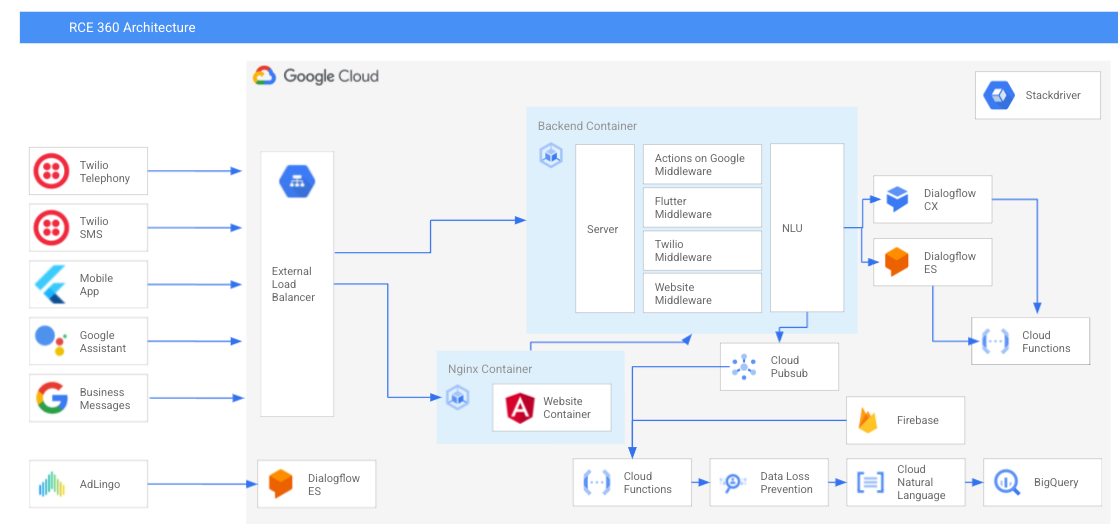
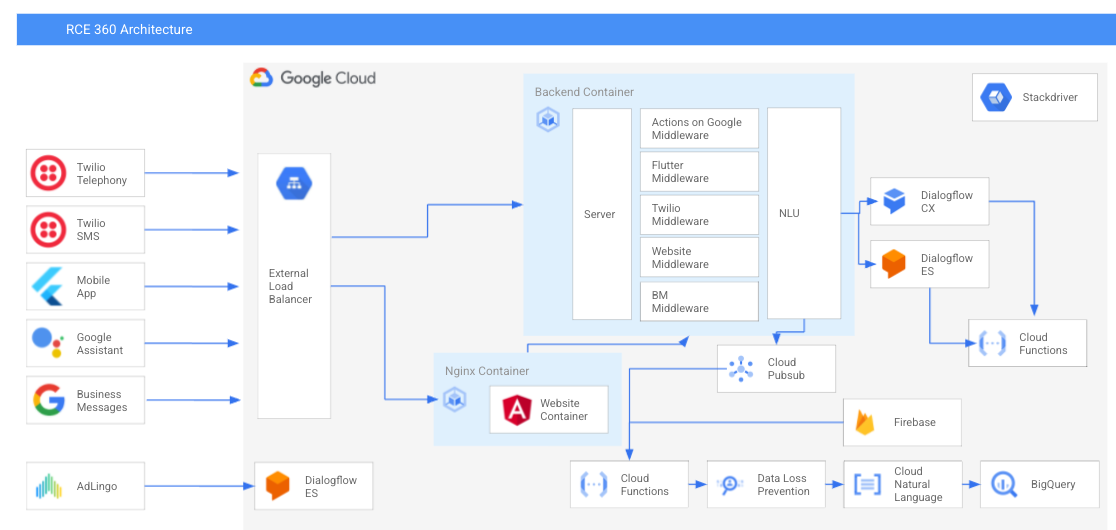
node explanation

diff --git a/README.md b/README.md
@@ -21,13 +21,16 @@ Setup to the various parts:
 * [Dialogflow](https://github.com/GoogleCloudPlatform/dialogflow-ccai-omnichannel#dialogflow)
 * [Twilio Phone & SMS](https://github.com/GoogleCloudPlatform/dialogflow-ccai-omnichannel#twilio-phonesms)
 * [Firebase](https://github.com/GoogleCloudPlatform/dialogflow-ccai-omnichannel#firebase)
+* [Business Messages](https://github.com/GoogleCloudPlatform/dialogflow-ccai-omnichannel#business-messages)
+* [Business Messages Adlingo](https://github.com/GoogleCloudPlatform/dialogflow-ccai-omnichannel#business-messages-adlingo)
+* [Business Messages Verified Calls](https://github.com/GoogleCloudPlatform/dialogflow-ccai-omnichannel#business-messages-verified-calls)
+
+To deploy this environment on GKE use these steps:
+
 * [Deploy to GKE](https://github.com/GoogleCloudPlatform/dialogflow-ccai-omnichannel#deploy-to-gke)
   
 To run this environment locally use these setup guides:
 
-* [Business Messages](https://github.com/GoogleCloudPlatform/dialogflow-ccai-omnichannel#business-messages)
-* [Business Messages Adlingo](https://github.com/GoogleCloudPlatform/dialogflow-ccai-omnichannel#business-messages-adlingo)
-* [Verified Calls](https://github.com/GoogleCloudPlatform/dialogflow-ccai-omnichannel#business-messages-verified-calls)
 * [Node JS Backend Server](https://github.com/GoogleCloudPlatform/dialogflow-ccai-omnichannel#node-js-backend-server)
 * [Angular Website](https://github.com/GoogleCloudPlatform/dialogflow-ccai-omnichannel#angular-website)
 * [Flutter Mobile App](https://github.com/GoogleCloudPlatform/dialogflow-ccai-omnichannel#flutter-mobile-app)
@@ -83,6 +86,17 @@ https://dialogflow.cloud.google.com/#/newAgent
 
 3. Import the ES agent into Dialogflow: https://github.com/GoogleCloudPlatform/dialogflow-ccai-omnichannel/tree/main/dialogflow/es-agent.zip
 
+4. To link your Dialogflow instance with a local environment make sure
+the `GC_PROJECT_ID` variable is correctly set in `backend/.env`
+
+5. To make use of Dialogflow Essentials, make sure you have set this config in `backend/config.ts`. By default it's set to `v2beta1`.
+
+```
+        dialogflow: {
+            version: 'v2beta1',
+        },
+```
+
 #### Dialogflow CX
 
 1. Create a new agent:
@@ -95,6 +109,11 @@ https://dialogflow.cloud.google.com/cx/projects
 * Language: English
 
 2. Import the CX agent into Dialogflow CX: https://github.com/GoogleCloudPlatform/dialogflow-ccai-omnichannel/tree/main/dialogflow/cx-agent.blob
+
+3. To link your Dialogflow instance with a local environment make sure
+the `AGENT_ID` and `CX_LOCATION` variables are correctly set in `backend/.env`
+
+4. To make use of Dialogflow CX, make sure you have set this config in `backend/config.ts`. By default it's set to `cx`.
 
 ## Twilio Phone/SMS
 
@@ -124,6 +143,9 @@ https://ccai.ngrok.io/twiml
 NOTE: For outbound calls you will need to whitelist the geo permissions you can call:
 https://console.twilio.com/us1/develop/voice/settings/geo-permissions
 
+6. To link your Twilio instance with a local environment make sure
+the `TWILIO_ACCOUNT_SID` and `TWILIO_ACCOUNT_TOKEN` variables are correctly set in `backend/.env`. Also make sure you have set the correct phone numbers in this file.
+
 ## Firebase
 
 You will need an account on Firebase as we will store authentication data
@@ -134,6 +156,91 @@ in Firebase auth.
 To install the Firebase command-line tools use:
 
 2. `npm install firebase-admin --save`
+
+## Business Messages
+With Business Messages, you can place messaging buttons for brands within organic Google search results. When a user clicks on a messaging button, they start a conversation with an entity representing the brand—the brand's agent. See the [Business Messages](https://developers.google.com/business-communications/business-messages/guides) documentation for more information.
+
+### Before you begin
+
+1.  [Register with Business Messages](https://developers.google.com/business-communications/business-messages/guides/set-up/register).
+
+### Configure your webhook
+You must specify your webhook URL in order to start receiving messages for the Business Messages agent you create.
+
+1.  Open the [Business Communications Developer Console](https://business-communications.cloud.google.com) and sign in with your Business Messages Google account.
+1.  Click **Account settings**.
+1.  Make sure the correct partner account is selected.
+1.  Enter your **Business Messages webhook URL** as *https://YOUR_WEB_SEVER/api/business-messages* where `YOUR_WEB_SEVER` is the domain where you are hosting the backend of the `dialogflow-ccai-omnichannel` project.
+1.  Click **Save**.
+
+### Create your Business Messages agent
+Once you've registered, it's time to create your agent.
+
+1.  Open the [Business Communications Developer Console](https://business-communications.cloud.google.com) and sign in with your Business Messages Google account.
+1.  Click **Create agent**.
+1.  If you're prompted for **Agent type**, choose **Business Messages**.
+1.  Enter values for **Brand name** and **Agent name**.
+1.  Click **Create agent**.
+1.  When your agent is available, click your agent.
+
+### Test your Business Messages agent
+
+Each agent has test URLs that let you see how a conversation with that agent
+appears to users. Use a test URL to verify that messages sent by users interacting with your agent are being received by your webhook and automatically responded to by the Dialogflow agent you've set up.
+
+To test an agent,
+
+1.  Open the [Business Communications Developer Console](https://business-communications.cloud.google.com) and sign in with your Business Messages Google account.
+1.  Choose your agent.
+1.  Under **Agent test URLs** on the **Overview** page, click the **Android** button or **iOS** button to copy the test URL to your device's clipboard and send to your mobile device or use the **Send** to email feature.
+1.  Open the test URL on your mobile device and send a message to the Business Messages agent.
+
+## Business Messages AdLingo
+
+[AdLingo Dialogflow Docs](https://docs.adlingo.com/adlingo-api/v2/dialogflow/)
+
+1. Login into your AdLingo environment: https://adsbuilder.adlingo.com/
+2. Create a [conversational agent](https://adsbuilder.adlingo.com/agents/add-new/dialogflow_service_account?activeWorkgroupId=5739925852913664):
+   - Specify the GCS bucket name and path to service account (it will be gs://[project-name]-bucket/ccai-360-key.json)
+   - Event name: `WELCOME-ADLINGO`
+3. Create a creative
+   - Upload an background image 600x1200 hi-res PNG
+   - Upload a logo
+   - Upload an avatar
+4. For this demo we are integrating an iframe with the preview of the add in the external website interface. In a real world application, this will be provided through an ads platform.
+
+## Business Messages Verified Calls
+With Verified Calls, you can upgrade a regular phone call from a business to a consumer. When a user receives a call from a business, the user sees who is calling, the logo of the business, that the business has been verified, and the reason for the call. See the [Verified Calls](https://developers.google.com/business-communications/verified-calls/guides/learn) documentation for more information.
+
+### Before you begin
+
+1.  [Register with Verified Calls](https://developers.google.com/business-communications/verified-calls/guides/set-up/partner).
+
+### Configure your webhook
+You must specify your webhook URL in order to start receiving messages for the Business Messages agent you create.
+
+1.  Open the [Business Communications Developer Console](https://business-communications.cloud.google.com) and sign in with your Business Messages Google account.
+1.  Click **Account settings**.
+1.  Make sure the correct partner account is selected.
+1.  Enter your **Business Messages webhook URL** as *https://YOUR_WEB_SEVER/api/business-messages* where `YOUR_WEB_SEVER` is the domain where you are hosting the backend of the `dialogflow-ccai-omnichannel` project.
+1.  Click **Save**.
+
+### Create your Verified Calls agent
+Once you've registered, it's time to create your agent.
+
+1.  Open the [Business Communications Developer Console](https://business-communications.cloud.google.com) and sign in with your Verified Calls Google account.
+1.  Click **Create agent**.
+1.  If you're prompted for **Agent type**, choose **Verified Calls**.
+1.  Enter values for **Brand name**, **Agent name**, and **Agent logo**.
+1.  Click **Next**.
+1.  Enter the phone number of the business.
+1.  Click **Next**.
+1.  Enter the call reasons.
+1.  Click **Next**.
+1.  Enter values for the brand contact, brand website, and yourself.
+1.  Click **Finish setup**.
+
+Once your agent has been verified by Google, when your business makes a call to a user, the user will see the business information. Note that this only works for Android users.
 
 ## Deploy to GKE
 
@@ -180,91 +287,19 @@ To deploy another deployment:
 
 The following steps will guide you to run all the various channels. These steps are optionally, in case you want to run it from your own machine.
 
-### Business Messages
-With Business Messages, you can place messaging buttons for brands within organic Google search results. When a user clicks on a messaging button, they start a conversation with an entity representing the brand—the brand's agent. See the [Business Messages](https://developers.google.com/business-communications/business-messages/guides) documentation for more information.
-
-#### Before you begin
-
-1.  [Register with Business Messages](https://developers.google.com/business-communications/business-messages/guides/set-up/register).
-
-#### Configure your webhook
-You must specify your webhook URL in order to start receiving messages for the Business Messages agent you create.
-
-1.  Open the [Business Communications Developer Console](https://business-communications.cloud.google.com) and sign in with your Business Messages Google account.
-1.  Click **Account settings**.
-1.  Make sure the correct partner account is selected.
-1.  Enter your **Business Messages webhook URL** as *https://YOUR_WEB_SEVER/api/business-messages* where `YOUR_WEB_SEVER` is the domain where you are hosting the backend of the `dialogflow-ccai-omnichannel` project.
-1.  Click **Save**.
-
-#### Create your Business Messages agent
-Once you've registered, it's time to create your agent.
-
-1.  Open the [Business Communications Developer Console](https://business-communications.cloud.google.com) and sign in with your Business Messages Google account.
-1.  Click **Create agent**.
-1.  If you're prompted for **Agent type**, choose **Business Messages**.
-1.  Enter values for **Brand name** and **Agent name**.
-1.  Click **Create agent**.
-1.  When your agent is available, click your agent.
-
-#### Test your Business Messages agent
-Each agent has test URLs that let you see how a conversation with that agent
-appears to users. Use a test URL to verify that messages sent by users interacting with your agent are being received by your webhook and automatically responded to by the Dialogflow agent you've set up.
-
-To test an agent,
-
-1.  Open the [Business Communications Developer Console](https://business-communications.cloud.google.com) and sign in with your Business Messages Google account.
-1.  Choose your agent.
-1.  Under **Agent test URLs** on the **Overview** page, click the **Android** button or **iOS** button to copy the test URL to your device's clipboard and send to your mobile device or use the **Send** to email feature.
-1.  Open the test URL on your mobile device and send a message to the Business Messages agent.
-
-### Business Messages AdLingo
-
-[AdLingo Dialogflow Docs](https://docs.adlingo.com/adlingo-api/v2/dialogflow/)
-
-1. Login into your AdLingo environment: https://adsbuilder.adlingo.com/
-2. Create a [conversational agent](https://adsbuilder.adlingo.com/agents/add-new/dialogflow_service_account?activeWorkgroupId=5739925852913664):
-   - Specify the GCS bucket name and path to service account (it will be gs://[project-name]-bucket/ccai-360-key.json)
-   - Event name: `WELCOME-ADLINGO`
-3. Create a creative
-   - Upload an background image 600x1200 hi-res PNG
-   - Upload a logo
-   - Upload an avatar
-4. For this demo we are integrating an iframe with the preview of the add in the external website interface. In a real world application, this will be provided through an ads platform.
-
-### Business Messages Verified Calls
-With Verified Calls, you can upgrade a regular phone call from a business to a consumer. When a user receives a call from a business, the user sees who is calling, the logo of the business, that the business has been verified, and the reason for the call. See the [Verified Calls](https://developers.google.com/business-communications/verified-calls/guides/learn) documentation for more information.
-
-#### Before you begin
-
-1.  [Register with Verified Calls](https://developers.google.com/business-communications/verified-calls/guides/set-up/partner).
-
-#### Configure your webhook
-You must specify your webhook URL in order to start receiving messages for the Business Messages agent you create.
-
-1.  Open the [Business Communications Developer Console](https://business-communications.cloud.google.com) and sign in with your Business Messages Google account.
-1.  Click **Account settings**.
-1.  Make sure the correct partner account is selected.
-1.  Enter your **Business Messages webhook URL** as *https://YOUR_WEB_SEVER/api/business-messages* where `YOUR_WEB_SEVER` is the domain where you are hosting the backend of the `dialogflow-ccai-omnichannel` project.
-1.  Click **Save**.
-
-#### Create your Verified Calls agent
-Once you've registered, it's time to create your agent.
-
-1.  Open the [Business Communications Developer Console](https://business-communications.cloud.google.com) and sign in with your Verified Calls Google account.
-1.  Click **Create agent**.
-1.  If you're prompted for **Agent type**, choose **Verified Calls**.
-1.  Enter values for **Brand name**, **Agent name**, and **Agent logo**.
-1.  Click **Next**.
-1.  Enter the phone number of the business.
-1.  Click **Next**.
-1.  Enter the call reasons.
-1.  Click **Next**.
-1.  Enter values for the brand contact, brand website, and yourself.
-1.  Click **Finish setup**.
-
-Once your agent has been verified by Google, when your business makes a call to a user, the user will see the business information. Note that this only works for Android users.
-
 ### Node JS Backend Server
+
+As seen in the below architecture, all channels talk to the Node JS backend server.
+[index.ts](https://github.com/GoogleCloudPlatform/dialogflow-ccai-omnichannel/blob/main/backend/src/index.ts) is the entry point. It sets all the API POST/GET routes.
+Each individual middleware script takes care of the implementation per channel
+((Business Messages)[https://github.com/GoogleCloudPlatform/dialogflow-ccai-omnichannel/blob/main/backend/src/business-messages.ts],
+(Twilio)[https://github.com/GoogleCloudPlatform/dialogflow-ccai-omnichannel/blob/main/backend/src/twilio.ts], (Web)[https://github.com/GoogleCloudPlatform/dialogflow-ccai-omnichannel/blob/main/backend/src/web.ts], (AoG)[https://github.com/GoogleCloudPlatform/dialogflow-ccai-omnichannel/blob/main/backend/src/aog.ts]).
+
+They are all handled the same way, as they talk to the [Dialogflow ES](https://github.com/GoogleCloudPlatform/dialogflow-ccai-omnichannel/blob/main/backend/src/dialogflow-v2beta1.ts)/(Dialogflow CX)[https://github.com/GoogleCloudPlatform/dialogflow-ccai-omnichannel/blob/main/backend/src/dialogflow-cx.ts] environment depending on the version that was set in (config.ts)[https://github.com/GoogleCloudPlatform/dialogflow-ccai-omnichannel/blob/main/backend/src/config.ts]. 
+No matter which Dialogflow version you are using, the responses are flattent and normalized, so you can switch between versions. See [dialogflow-bot-responses.ts](https://github.com/GoogleCloudPlatform/dialogflow-ccai-omnichannel/blob/main/backend/src/dialogflow-bot-responses.ts).
+
+<img src="https://github.com/GoogleCloudPlatform/dialogflow-ccai-omnichannel/blob/main/images/architecture.png" width="800" />
+
 
 1. In order to run this demo on your local machine. You will need to have Node installed.
 
@@ -280,7 +315,12 @@ nano env.txt
 cp env.txt .env
 ```
 
-3. You can start the back-end server with the below command. It will start your app in development mode at http://localhost:8080
+3. Please review the following configurations that are unique for your environment:
+
+* `backend/.env`
+* `backend/config.ts`
+
+4. You can start the back-end server with the below command. It will start your app in development mode at http://localhost:8080
 
 ```
 cd backend && npm run watch
